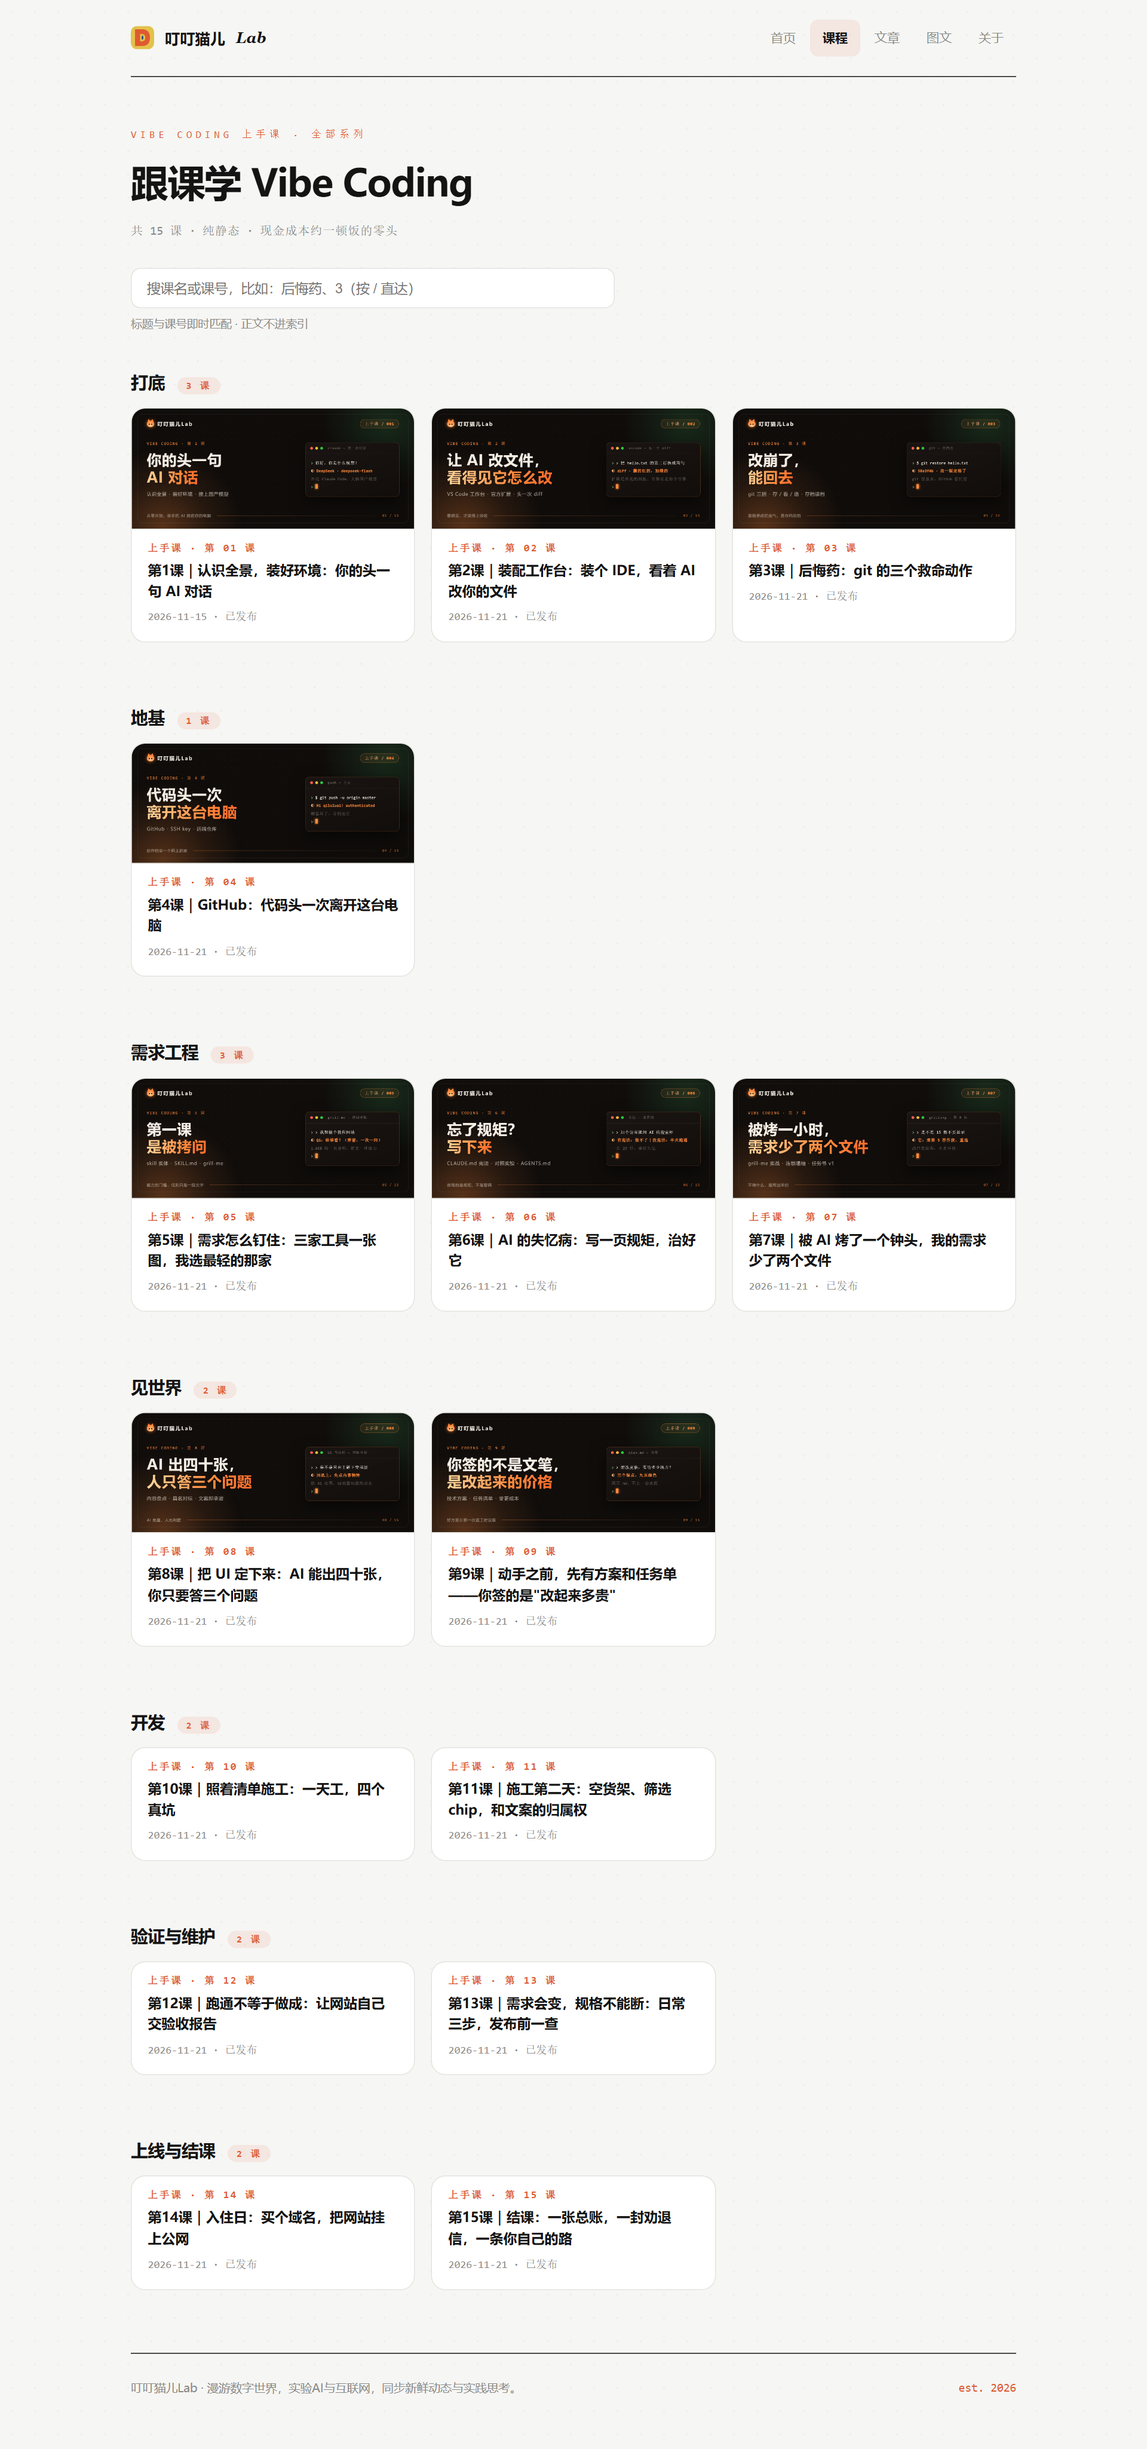
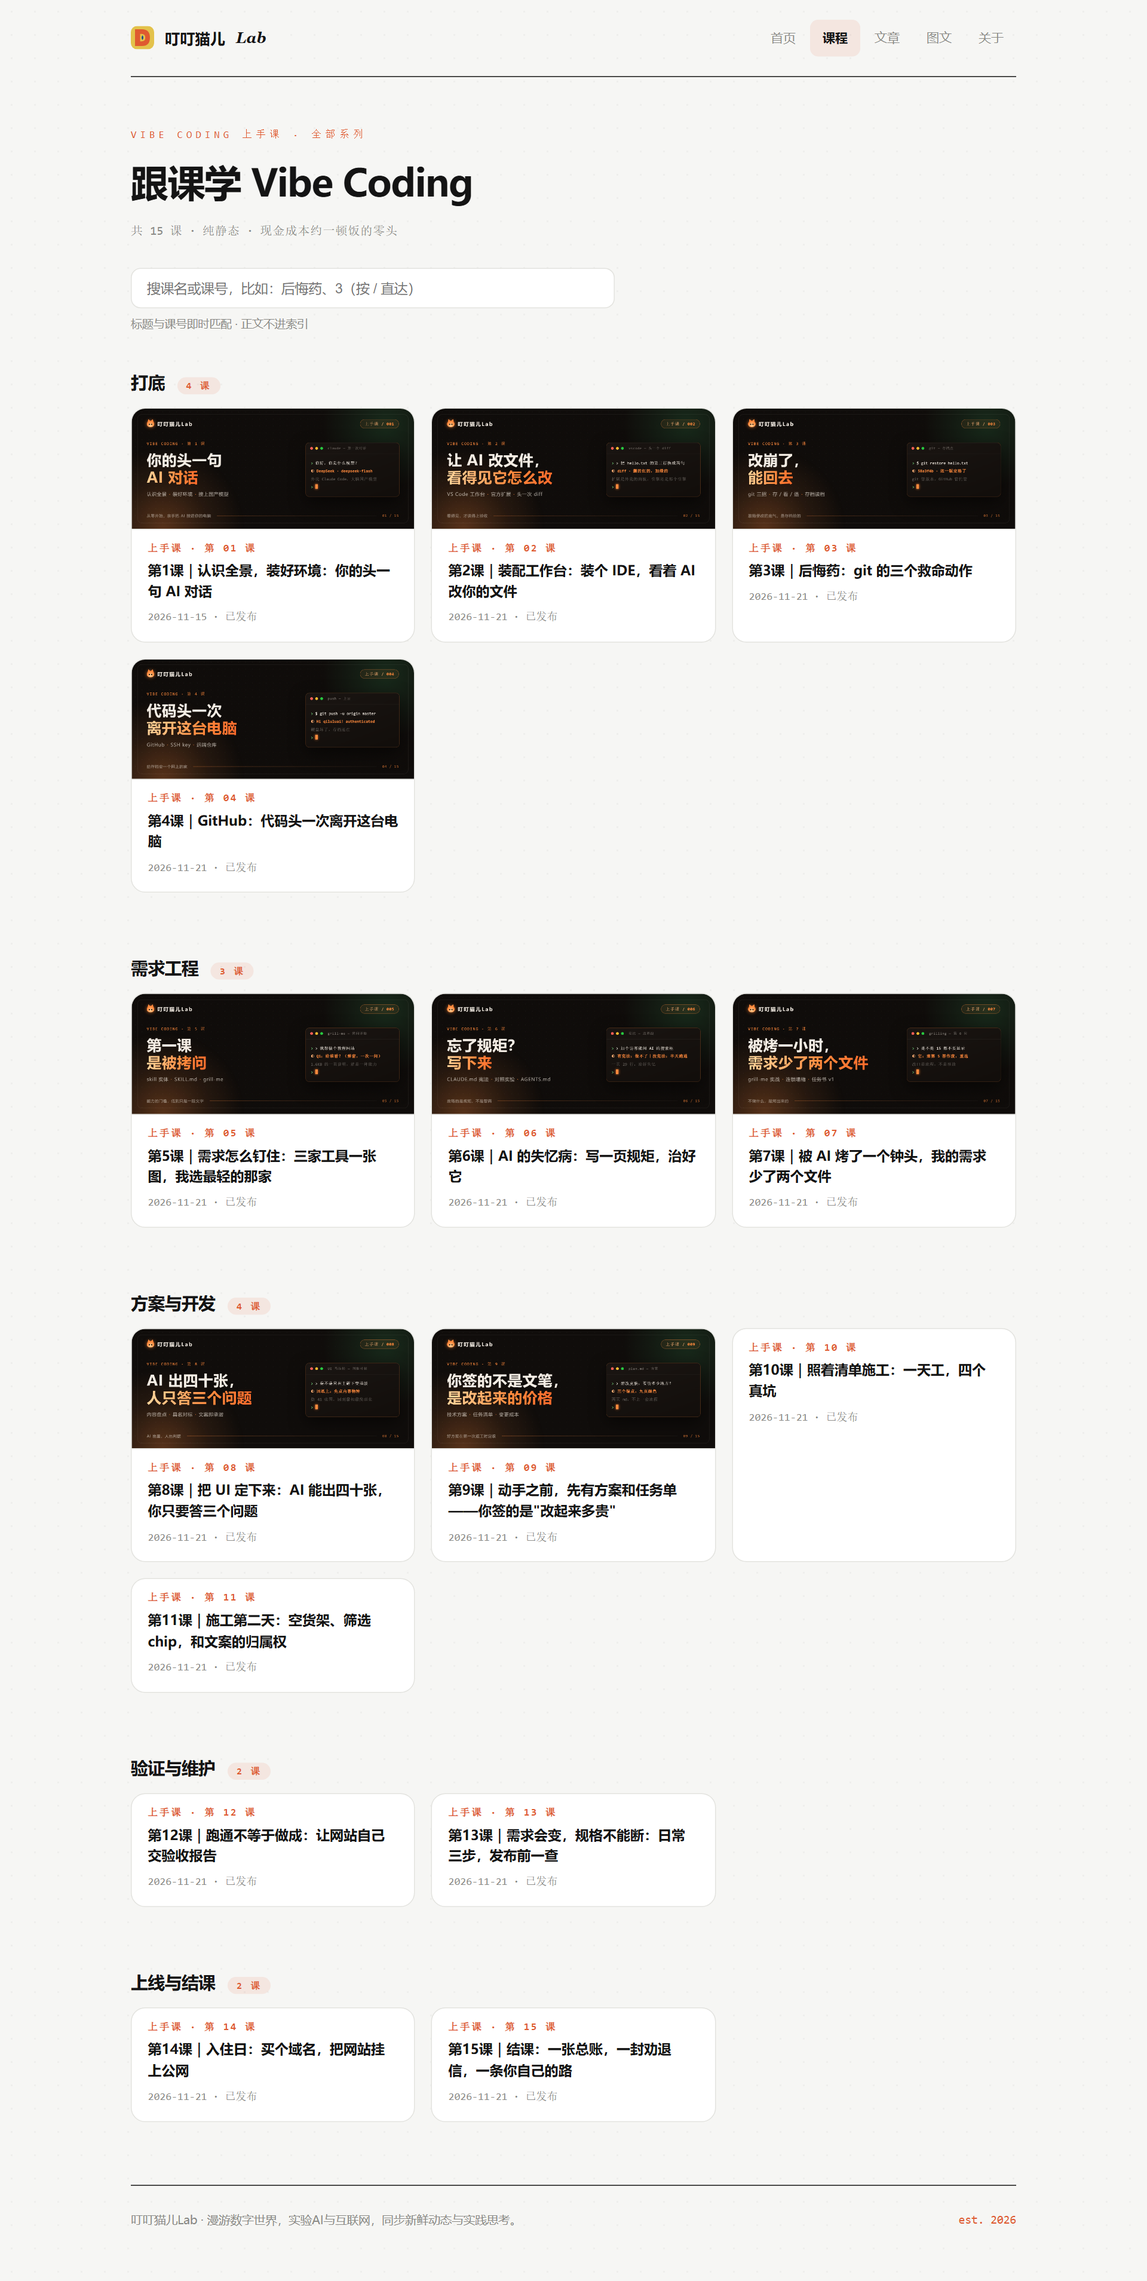
章节命名归一：打底/需求工程/方案与开发/验证与维护/上线与结课 五章，15 课全归位（跨四次导入攒出的四代命名终统一）

diff --git a/learn.html b/learn.html
@@ -92,7 +92,7 @@ article img{max-width:100%;height:auto;border-radius:10px;border:1px solid var(-
 <input type="checkbox" id="navcb">
 <div class="wrap">
 <nav><span class="b"><svg viewBox="0 0 100 100" style="width:26px;height:26px;border-radius:7px"><rect width="100" height="100" rx="22" fill="#e3c24b"/><path d="M18 14 H48 Q82 14 82 50 Q82 86 48 86 H18 Z M40 34 H46 Q62 34 62 50 Q62 66 46 66 H40 Z" fill="#df5a30" fill-rule="evenodd"/><path d="M50 40 Q54 45 54 50 Q54 55 50 60 Q46 55 46 50 Q46 45 50 40 Z" fill="#1d4e89"/></svg>叮叮猫儿<i class="lab">Lab</i></span><span class="links"><a class="nl" href="index.html">首页</a><a class="nl on" href="learn.html">课程</a><a class="nl" href="list.html">文章</a><a class="nl" href="gallery.html">图文</a><a class="nl" href="about.html">关于</a></span><label class="burger" for="navcb">&#9776;</label></nav>
-<div class="head"><div class="kicker">VIBE CODING 上手课 · 全部系列</div><h1>跟课学 Vibe Coding</h1><div class="meta">共 15 课 · 纯静态 · 现金成本约一顿饭的零头</div></div><input class="search" id="q" placeholder="搜课名或课号，比如：后悔药、3（按 / 直达）"><div class="hint">标题与课号即时匹配 · 正文不进索引</div><div class="chapter-group"><div class="chapter-h"><h2>打底</h2><span>3 课</span></div><div class="cgrid"><a class="ccard" data-t="第1课｜认识全景，装好环境：你的头一句 ai 对话|课1|1" href="a/k01-认识全景装好环境.html"><img loading="lazy" src="covers/cover-上手课001.png"><div class="cb"><div class="ck">上手课 · 第 01 课</div><div class="ct">第1课｜认识全景，装好环境：你的头一句 AI 对话</div><div class="cd">2026-11-15 · 已发布</div></div></a><a class="ccard" data-t="第2课｜装配工作台：装个 ide，看着 ai 改你的文件|课2|2" href="a/k02-装配工作台.html"><img loading="lazy" src="covers/cover-上手课002.png"><div class="cb"><div class="ck">上手课 · 第 02 课</div><div class="ct">第2课｜装配工作台：装个 IDE，看着 AI 改你的文件</div><div class="cd">2026-11-21 · 已发布</div></div></a><a class="ccard" data-t="第3课｜后悔药：git 的三个救命动作|课3|3" href="a/k03-后悔药.html"><img loading="lazy" src="covers/cover-上手课003.png"><div class="cb"><div class="ck">上手课 · 第 03 课</div><div class="ct">第3课｜后悔药：git 的三个救命动作</div><div class="cd">2026-11-21 · 已发布</div></div></a></div></div><div class="chapter-group"><div class="chapter-h"><h2>地基</h2><span>1 课</span></div><div class="cgrid"><a class="ccard" data-t="第4课｜github：代码头一次离开这台电脑|课4|4" href="a/k04-github上云.html"><img loading="lazy" src="covers/cover-上手课004.png"><div class="cb"><div class="ck">上手课 · 第 04 课</div><div class="ct">第4课｜GitHub：代码头一次离开这台电脑</div><div class="cd">2026-11-21 · 已发布</div></div></a></div></div><div class="chapter-group"><div class="chapter-h"><h2>需求工程</h2><span>3 课</span></div><div class="cgrid"><a class="ccard" data-t="第5课｜需求怎么钉住：三家工具一张图，我选最轻的那家|课5|5" href="a/k05-需求怎么钉住.html"><img loading="lazy" src="covers/cover-上手课005.png"><div class="cb"><div class="ck">上手课 · 第 05 课</div><div class="ct">第5课｜需求怎么钉住：三家工具一张图，我选最轻的那家</div><div class="cd">2026-11-21 · 已发布</div></div></a><a class="ccard" data-t="第6课｜ai 的失忆病：写一页规矩，治好它|课6|6" href="a/k06-失忆病.html"><img loading="lazy" src="covers/cover-上手课006.png"><div class="cb"><div class="ck">上手课 · 第 06 课</div><div class="ct">第6课｜AI 的失忆病：写一页规矩，治好它</div><div class="cd">2026-11-21 · 已发布</div></div></a><a class="ccard" data-t="第7课｜被 ai 烤了一个钟头，我的需求少了两个文件|课7|7" href="a/k07-被烤一小时.html"><img loading="lazy" src="covers/cover-上手课007.png"><div class="cb"><div class="ck">上手课 · 第 07 课</div><div class="ct">第7课｜被 AI 烤了一个钟头，我的需求少了两个文件</div><div class="cd">2026-11-21 · 已发布</div></div></a></div></div><div class="chapter-group"><div class="chapter-h"><h2>见世界</h2><span>2 课</span></div><div class="cgrid"><a class="ccard" data-t="第8课｜把 ui 定下来：ai 能出四十张，你只要答三个问题|课8|8" href="a/k08-把UI定下来.html"><img loading="lazy" src="covers/cover-上手课008.png"><div class="cb"><div class="ck">上手课 · 第 08 课</div><div class="ct">第8课｜把 UI 定下来：AI 能出四十张，你只要答三个问题</div><div class="cd">2026-11-21 · 已发布</div></div></a><a class="ccard" data-t="第9课｜动手之前，先有方案和任务单——你签的是&quot;改起来多贵&quot;|课9|9" href="a/k09-方案与任务单.html"><img loading="lazy" src="covers/cover-上手课009.png"><div class="cb"><div class="ck">上手课 · 第 09 课</div><div class="ct">第9课｜动手之前，先有方案和任务单——你签的是&quot;改起来多贵&quot;</div><div class="cd">2026-11-21 · 已发布</div></div></a></div></div><div class="chapter-group"><div class="chapter-h"><h2>开发</h2><span>2 课</span></div><div class="cgrid"><a class="ccard" data-t="第10课｜照着清单施工：一天工，四个真坑|课10|10" href="a/k10-照着清单施工.html"><div class="cb"><div class="ck">上手课 · 第 10 课</div><div class="ct">第10课｜照着清单施工：一天工，四个真坑</div><div class="cd">2026-11-21 · 已发布</div></div></a><a class="ccard" data-t="第11课｜施工第二天：空货架、筛选chip，和文案的归属权|课11|11" href="a/k11-空货架与归属权.html"><div class="cb"><div class="ck">上手课 · 第 11 课</div><div class="ct">第11课｜施工第二天：空货架、筛选chip，和文案的归属权</div><div class="cd">2026-11-21 · 已发布</div></div></a></div></div><div class="chapter-group"><div class="chapter-h"><h2>验证与维护</h2><span>2 课</span></div><div class="cgrid"><a class="ccard" data-t="第12课｜跑通不等于做成：让网站自己交验收报告|课12|12" href="a/k12-跑通不等于做成.html"><div class="cb"><div class="ck">上手课 · 第 12 课</div><div class="ct">第12课｜跑通不等于做成：让网站自己交验收报告</div><div class="cd">2026-11-21 · 已发布</div></div></a><a class="ccard" data-t="第13课｜需求会变，规格不能断：日常三步，发布前一查|课13|13" href="a/k13-日常三步发布前一查.html"><div class="cb"><div class="ck">上手课 · 第 13 课</div><div class="ct">第13课｜需求会变，规格不能断：日常三步，发布前一查</div><div class="cd">2026-11-21 · 已发布</div></div></a></div></div><div class="chapter-group"><div class="chapter-h"><h2>上线与结课</h2><span>2 课</span></div><div class="cgrid"><a class="ccard" data-t="第14课｜入住日：买个域名，把网站挂上公网|课14|14" href="a/k14-入住日.html"><div class="cb"><div class="ck">上手课 · 第 14 课</div><div class="ct">第14课｜入住日：买个域名，把网站挂上公网</div><div class="cd">2026-11-21 · 已发布</div></div></a><a class="ccard" data-t="第15课｜结课：一张总账，一封劝退信，一条你自己的路|课15|15" href="a/k15-结课总账.html"><div class="cb"><div class="ck">上手课 · 第 15 课</div><div class="ct">第15课｜结课：一张总账，一封劝退信，一条你自己的路</div><div class="cd">2026-11-21 · 已发布</div></div></a></div></div><div class="empty hide" id="empty">没有匹配「<span id="ekw"></span>」的课。<br><br><span class="go-try" data-k="后悔药">试试「后悔药」</span>？或 <span class="go-clear">清空搜索</span> 看全部 15 课</div>
+<div class="head"><div class="kicker">VIBE CODING 上手课 · 全部系列</div><h1>跟课学 Vibe Coding</h1><div class="meta">共 15 课 · 纯静态 · 现金成本约一顿饭的零头</div></div><input class="search" id="q" placeholder="搜课名或课号，比如：后悔药、3（按 / 直达）"><div class="hint">标题与课号即时匹配 · 正文不进索引</div><div class="chapter-group"><div class="chapter-h"><h2>打底</h2><span>4 课</span></div><div class="cgrid"><a class="ccard" data-t="第1课｜认识全景，装好环境：你的头一句 ai 对话|课1|1" href="a/k01-认识全景装好环境.html"><img loading="lazy" src="covers/cover-上手课001.png"><div class="cb"><div class="ck">上手课 · 第 01 课</div><div class="ct">第1课｜认识全景，装好环境：你的头一句 AI 对话</div><div class="cd">2026-11-15 · 已发布</div></div></a><a class="ccard" data-t="第2课｜装配工作台：装个 ide，看着 ai 改你的文件|课2|2" href="a/k02-装配工作台.html"><img loading="lazy" src="covers/cover-上手课002.png"><div class="cb"><div class="ck">上手课 · 第 02 课</div><div class="ct">第2课｜装配工作台：装个 IDE，看着 AI 改你的文件</div><div class="cd">2026-11-21 · 已发布</div></div></a><a class="ccard" data-t="第3课｜后悔药：git 的三个救命动作|课3|3" href="a/k03-后悔药.html"><img loading="lazy" src="covers/cover-上手课003.png"><div class="cb"><div class="ck">上手课 · 第 03 课</div><div class="ct">第3课｜后悔药：git 的三个救命动作</div><div class="cd">2026-11-21 · 已发布</div></div></a><a class="ccard" data-t="第4课｜github：代码头一次离开这台电脑|课4|4" href="a/k04-github上云.html"><img loading="lazy" src="covers/cover-上手课004.png"><div class="cb"><div class="ck">上手课 · 第 04 课</div><div class="ct">第4课｜GitHub：代码头一次离开这台电脑</div><div class="cd">2026-11-21 · 已发布</div></div></a></div></div><div class="chapter-group"><div class="chapter-h"><h2>需求工程</h2><span>3 课</span></div><div class="cgrid"><a class="ccard" data-t="第5课｜需求怎么钉住：三家工具一张图，我选最轻的那家|课5|5" href="a/k05-需求怎么钉住.html"><img loading="lazy" src="covers/cover-上手课005.png"><div class="cb"><div class="ck">上手课 · 第 05 课</div><div class="ct">第5课｜需求怎么钉住：三家工具一张图，我选最轻的那家</div><div class="cd">2026-11-21 · 已发布</div></div></a><a class="ccard" data-t="第6课｜ai 的失忆病：写一页规矩，治好它|课6|6" href="a/k06-失忆病.html"><img loading="lazy" src="covers/cover-上手课006.png"><div class="cb"><div class="ck">上手课 · 第 06 课</div><div class="ct">第6课｜AI 的失忆病：写一页规矩，治好它</div><div class="cd">2026-11-21 · 已发布</div></div></a><a class="ccard" data-t="第7课｜被 ai 烤了一个钟头，我的需求少了两个文件|课7|7" href="a/k07-被烤一小时.html"><img loading="lazy" src="covers/cover-上手课007.png"><div class="cb"><div class="ck">上手课 · 第 07 课</div><div class="ct">第7课｜被 AI 烤了一个钟头，我的需求少了两个文件</div><div class="cd">2026-11-21 · 已发布</div></div></a></div></div><div class="chapter-group"><div class="chapter-h"><h2>方案与开发</h2><span>4 课</span></div><div class="cgrid"><a class="ccard" data-t="第8课｜把 ui 定下来：ai 能出四十张，你只要答三个问题|课8|8" href="a/k08-把UI定下来.html"><img loading="lazy" src="covers/cover-上手课008.png"><div class="cb"><div class="ck">上手课 · 第 08 课</div><div class="ct">第8课｜把 UI 定下来：AI 能出四十张，你只要答三个问题</div><div class="cd">2026-11-21 · 已发布</div></div></a><a class="ccard" data-t="第9课｜动手之前，先有方案和任务单——你签的是&quot;改起来多贵&quot;|课9|9" href="a/k09-方案与任务单.html"><img loading="lazy" src="covers/cover-上手课009.png"><div class="cb"><div class="ck">上手课 · 第 09 课</div><div class="ct">第9课｜动手之前，先有方案和任务单——你签的是&quot;改起来多贵&quot;</div><div class="cd">2026-11-21 · 已发布</div></div></a><a class="ccard" data-t="第10课｜照着清单施工：一天工，四个真坑|课10|10" href="a/k10-照着清单施工.html"><div class="cb"><div class="ck">上手课 · 第 10 课</div><div class="ct">第10课｜照着清单施工：一天工，四个真坑</div><div class="cd">2026-11-21 · 已发布</div></div></a><a class="ccard" data-t="第11课｜施工第二天：空货架、筛选chip，和文案的归属权|课11|11" href="a/k11-空货架与归属权.html"><div class="cb"><div class="ck">上手课 · 第 11 课</div><div class="ct">第11课｜施工第二天：空货架、筛选chip，和文案的归属权</div><div class="cd">2026-11-21 · 已发布</div></div></a></div></div><div class="chapter-group"><div class="chapter-h"><h2>验证与维护</h2><span>2 课</span></div><div class="cgrid"><a class="ccard" data-t="第12课｜跑通不等于做成：让网站自己交验收报告|课12|12" href="a/k12-跑通不等于做成.html"><div class="cb"><div class="ck">上手课 · 第 12 课</div><div class="ct">第12课｜跑通不等于做成：让网站自己交验收报告</div><div class="cd">2026-11-21 · 已发布</div></div></a><a class="ccard" data-t="第13课｜需求会变，规格不能断：日常三步，发布前一查|课13|13" href="a/k13-日常三步发布前一查.html"><div class="cb"><div class="ck">上手课 · 第 13 课</div><div class="ct">第13课｜需求会变，规格不能断：日常三步，发布前一查</div><div class="cd">2026-11-21 · 已发布</div></div></a></div></div><div class="chapter-group"><div class="chapter-h"><h2>上线与结课</h2><span>2 课</span></div><div class="cgrid"><a class="ccard" data-t="第14课｜入住日：买个域名，把网站挂上公网|课14|14" href="a/k14-入住日.html"><div class="cb"><div class="ck">上手课 · 第 14 课</div><div class="ct">第14课｜入住日：买个域名，把网站挂上公网</div><div class="cd">2026-11-21 · 已发布</div></div></a><a class="ccard" data-t="第15课｜结课：一张总账，一封劝退信，一条你自己的路|课15|15" href="a/k15-结课总账.html"><div class="cb"><div class="ck">上手课 · 第 15 课</div><div class="ct">第15课｜结课：一张总账，一封劝退信，一条你自己的路</div><div class="cd">2026-11-21 · 已发布</div></div></a></div></div><div class="empty hide" id="empty">没有匹配「<span id="ekw"></span>」的课。<br><br><span class="go-try" data-k="后悔药">试试「后悔药」</span>？或 <span class="go-clear">清空搜索</span> 看全部 15 课</div>
 <footer><span>叮叮猫儿Lab · 漫游数字世界，实验AI与互联网，同步新鲜动态与实践思考。</span><span class="no">est. 2026</span></footer>
 </div>
 <div class="drawer"><label class="ovl" for="navcb"></label><div class="panel"><a class="dl" href="index.html">首页</a><a class="dl on" href="learn.html">课程</a><a class="dl" href="list.html">文章</a><a class="dl" href="gallery.html">图文</a><a class="dl" href="about.html">关于</a><div class="dfoot">本站纯静态 · 零 Cookie 零追踪<br>公众号首发 · 这里永久存档</div></div></div>

diff --git a/articles/k09-方案与任务单.md b/articles/k09-方案与任务单.md
@@ -2,7 +2,7 @@
 title: 第9课｜动手之前，先有方案和任务单——你签的是"改起来多贵"
 kind: course
 series: 上手课
-chapter: 见世界
+chapter: 方案与开发
 number: 9
 date: 2026-11-21
 tags: [vibe coding, 教程]

diff --git a/articles/k08-把UI定下来.md b/articles/k08-把UI定下来.md
@@ -2,7 +2,7 @@
 title: 第8课｜把 UI 定下来：AI 能出四十张，你只要答三个问题
 kind: course
 series: 上手课
-chapter: 见世界
+chapter: 方案与开发
 number: 8
 date: 2026-11-21
 tags: [vibe coding, 教程]

diff --git a/articles/k11-空货架与归属权.md b/articles/k11-空货架与归属权.md
@@ -2,7 +2,7 @@
 title: 第11课｜施工第二天：空货架、筛选chip，和文案的归属权
 kind: course
 series: 上手课
-chapter: 开发
+chapter: 方案与开发
 number: 11
 date: 2026-11-21
 tags: [vibe coding, 教程]

diff --git a/articles/k10-照着清单施工.md b/articles/k10-照着清单施工.md
@@ -2,7 +2,7 @@
 title: 第10课｜照着清单施工：一天工，四个真坑
 kind: course
 series: 上手课
-chapter: 开发
+chapter: 方案与开发
 number: 10
 date: 2026-11-21
 tags: [vibe coding, 教程]

diff --git a/articles/k04-github上云.md b/articles/k04-github上云.md
@@ -2,7 +2,7 @@
 title: 第4课｜GitHub：代码头一次离开这台电脑
 kind: course
 series: 上手课
-chapter: 地基
+chapter: 打底
 number: 4
 date: 2026-11-21
 tags: [vibe coding, 教程]
